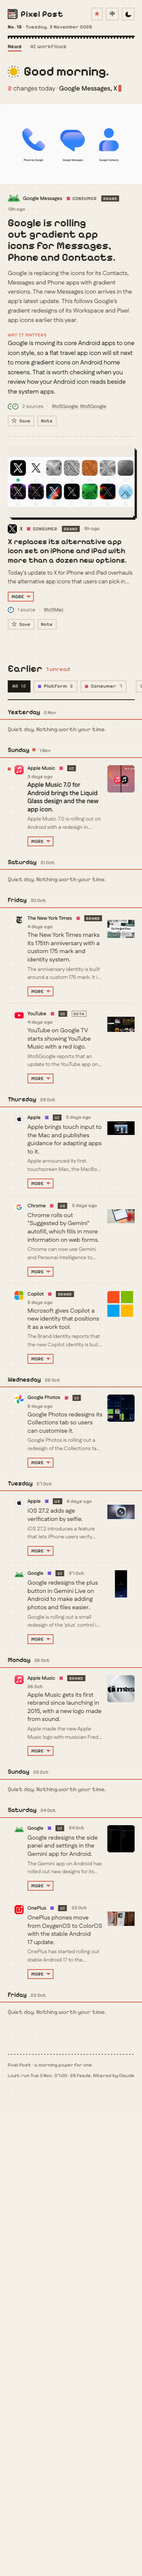
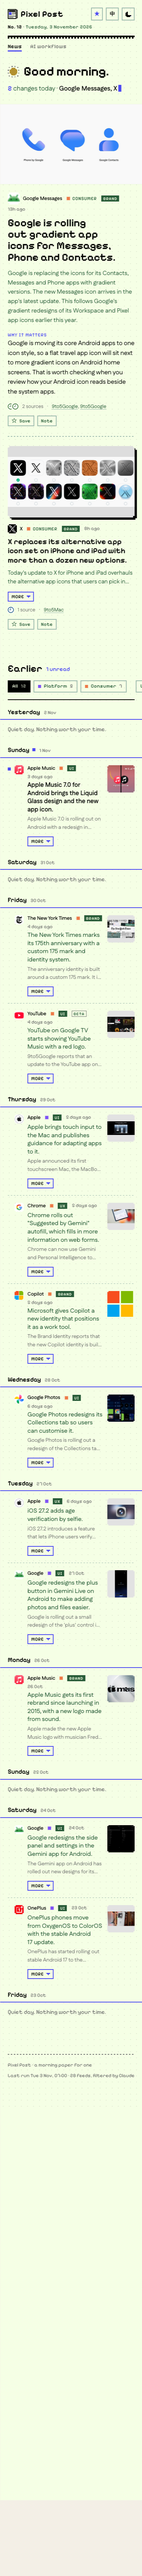
New colour theme from the reader's palette: green-white paper, black ink, indigo accent; dark mode black with lavender

diff --git a/site/styles.css b/site/styles.css
@@ -1,22 +1,25 @@
 /* Pixel Post: a morning paper for one, set in pixels.
-   Pixelify Sans for display, Fustat for reading. Muted paper, one coral-red accent, one dot colour per category. */
+   Pixelify Sans for display, Fustat for reading. Every colour comes from the reader's palette (Nov 2026):
+   pale green-white paper, black ink, forest green and grey for quieter text, one indigo accent (lavender in dark,
+   where indigo is too dark to read), one dot colour per category. Small text is at least 4.5:1 in both themes. */
 
 :root {
-  --paper: #f3efe6;
-  --paper-2: #ebe5d8;
-  --card: #fbf9f4;
-  --ink: #1d1a16;
-  --ink-2: #4a443b;
-  --ink-3: #6e675c;
-  --line: #d9d1c1;
-  --accent: #d6614f;
+  --paper: #f5ffe5; /* cream */
+  --paper-2: #e2e2e2; /* light grey: picture frames, empty slots */
+  --card: #ffffff;
+  --ink: #000000;
+  --ink-2: #285b38; /* forest, 7.7:1 */
+  --ink-3: #6d6e6d; /* grey, 5.0:1 */
+  --line: #9cb8ad; /* sage */
+  --accent: #4c49f3; /* indigo, 5.7:1 */
   --accent-ink: var(--accent); /* one accent everywhere: text, cursor, timeline */
-  --sun: #f2b705;
-  --ota: #2f6fe0;
-  --rail: #1d9a5b;
-  --platform: #7b4fd6;
-  --consumer: #e0446e;
-  --shadow: #1d1a16;
+  --sun: #b2902f; /* ochre */
+  --ota: #51b3f9; /* sky */
+  --rail: #61c87a; /* green */
+  --platform: #7f52f6; /* violet */
+  --consumer: #ee7a48; /* orange */
+  --shadow: #000000;
+  --tile: #ffffff; /* behind logos */
 
   /* Pixelify Sans and Fustat have no Chinese characters; Chinese text falls back to the system's Chinese font. */
   --cjk: 'PingFang SC', 'Hiragino Sans GB', 'Noto Sans SC', 'Microsoft YaHei', sans-serif;
@@ -32,21 +35,22 @@
 }
 
 [data-theme='dark'] {
-  --paper: #16140f;
-  --paper-2: #1e1b15;
-  --card: #1c1913;
-  --ink: #efe9dc;
-  --ink-2: #c9c1b1;
-  --ink-3: #9c9384;
-  --line: #3a352b;
-  --accent: #d6614f;
+  --paper: #000000;
+  --paper-2: #2c2c2c; /* dark grey */
+  --card: #2c2c2c;
+  --ink: #f5ffe5; /* cream, 20:1 */
+  --ink-2: #9cb8ad; /* sage, 9.9:1 */
+  --ink-3: #857a7a; /* taupe, 5.1:1 */
+  --line: #285b38; /* forest */
+  --accent: #c2bafa; /* lavender, 11.7:1 */
   --accent-ink: var(--accent);
-  --sun: #ffcc33;
-  --ota: #6b9cff;
-  --rail: #3fcf8a;
-  --platform: #a98bff;
-  --consumer: #ff7a9c;
-  --shadow: #000;
+  --sun: #e9fea3; /* lime */
+  --ota: #51b3f9;
+  --rail: #61c87a;
+  --platform: #7f52f6;
+  --consumer: #ee7a48;
+  --shadow: #2c2c2c;
+  --tile: #f5ffe5;
   color-scheme: dark;
 }
 
@@ -382,11 +386,11 @@ button {
    Times), which vanishes on the dark page. A logo that is light on transparent gets a dark tile instead (tileIcons). */
 .icon,
 .sources .stack img {
-  background: #f3efe6;
+  background: var(--tile);
 }
 .icon.on-dark,
 .sources .stack img.on-dark {
-  background: #1d1a16;
+  background: #000000;
 }
 .icon {
   flex: none;
@@ -725,10 +729,10 @@ button {
   height: 100%;
   object-fit: cover;
 }
-/* A picture far from the frame's shape is shown whole, on a light paper (most such pictures are screenshots). */
+/* A picture far from the frame's shape is shown whole, on the theme's grey (light grey, or dark grey in dark mode). */
 .media.whole,
 .row-thumb.whole {
-  background: #f3efe6;
+  background: var(--paper-2);
 }
 .media.whole img,
 .row-thumb.whole img {

diff --git a/site/app.js b/site/app.js
@@ -348,7 +348,7 @@ const CUP = [
   '.cccccccccccccc.',
   '................',
 ];
-const cup = () => pixels(CUP, { c: 'var(--ink)', k: '#8a5a33', w: 'var(--card)', s: ['var(--ink-3)', 'steam'], t: ['var(--ink-3)', 'steam s2'] });
+const cup = () => pixels(CUP, { c: 'var(--ink)', k: '#b2902f', w: 'var(--card)', s: ['var(--ink-3)', 'steam'], t: ['var(--ink-3)', 'steam s2'] });
 
 const TREND = [
   '............',
@@ -1022,7 +1022,7 @@ function paintTheme() {
   const dark = document.documentElement.dataset.theme === 'dark';
   btn.innerHTML = dark ? sun() : moon();
   btn.setAttribute('aria-label', dark ? t().toLight : t().toDark);
-  $('meta[name="theme-color"]').content = dark ? '#16140f' : '#f3efe6';
+  $('meta[name="theme-color"]').content = dark ? '#000000' : '#f5ffe5';
 }
 
 function wireTheme() {

diff --git a/site/index.html b/site/index.html
@@ -5,7 +5,7 @@
     <meta name="viewport" content="width=device-width, initial-scale=1, viewport-fit=cover" />
     <title>Pixel Post · app design changes worth your time</title>
     <meta name="description" content="A one-person morning paper of design, flow and feature changes in popular apps." />
-    <meta name="theme-color" content="#f3efe6" />
+    <meta name="theme-color" content="#f5ffe5" />
     <link rel="icon" href="favicon.svg" type="image/svg+xml" />
     <link rel="preconnect" href="https://fonts.googleapis.com" />
     <link rel="preconnect" href="https://fonts.gstatic.com" crossorigin />

diff --git a/README.md b/README.md
@@ -189,4 +189,4 @@ src/compare.ts        picks each item's picture (and before/after pairs)
 
 **Saved.** Every item has a **star** and a **note**: type it, then **Save note** (inside the box) or Cmd+Enter; the box closes and the note shows under the item, with **Edit note** to change it. The **Saved** button (top right) lists the week's starred items with their notes and a **Remove** button, a week at a time. Stars and notes are kept in your browser only, so they don't follow you to another device. Share links sent before November 2026 still open, read-only.
 
-English by default, with a **中 / EN** switch (top right) that changes everything on the page, including dates and each item's write-up, and is remembered in your browser. Items written before the Chinese write-ups were added (before 30 Oct 2026) stay in English. Light by default, with a dark mode toggle next to it. Each item has a **UI**, **UX** or **Brand** label, and the archive can be filtered by it. Pixelify Sans for headlines, Fustat for reading. One coral-red accent (#D6614F); each category has its own square dot (OTA blue, rail green, platform violet, consumer pink). The timeline fills with the accent as you scroll. The logo is a pixel newspaper whose lines print in. Cards, dates and archive rows print in as they scroll into view, and images arrive blocky and sharpen in a few steps; items without an image show their app icon as a pixel mosaic. Unread dots mark items collected since your previous visit (kept in your browser's localStorage) and clear when you open an item. Motion is switched off when your system asks for reduced motion.
+English by default, with a **中 / EN** switch (top right) that changes everything on the page, including dates and each item's write-up, and is remembered in your browser. Items written before the Chinese write-ups were added (before 30 Oct 2026) stay in English. Light by default, with a dark mode toggle next to it. Each item has a **UI**, **UX** or **Brand** label, and the archive can be filtered by it. Pixelify Sans for headlines, Fustat for reading. Colours come from one palette: pale green-white paper (#F5FFE5), black text, forest green (#285B38) and grey (#6D6E6D) for quieter text, sage (#9CB8AD) rules, and one indigo accent (#4C49F3; lavender #C2BAFA in dark mode, where indigo is too dark to read). Dark mode is black with the palette's dark grey (#2C2C2C) for panels. Each category has its own square dot (OTA sky, rail green, platform violet, consumer orange). All text meets 4.5:1 contrast in both themes. The variables are at the top of `site/styles.css`. The timeline fills with the accent as you scroll. The logo is a pixel newspaper whose lines print in. Cards, dates and archive rows print in as they scroll into view, and images arrive blocky and sharpen in a few steps; items without an image show their app icon as a pixel mosaic. Unread dots mark items collected since your previous visit (kept in your browser's localStorage) and clear when you open an item. Motion is switched off when your system asks for reduced motion.
